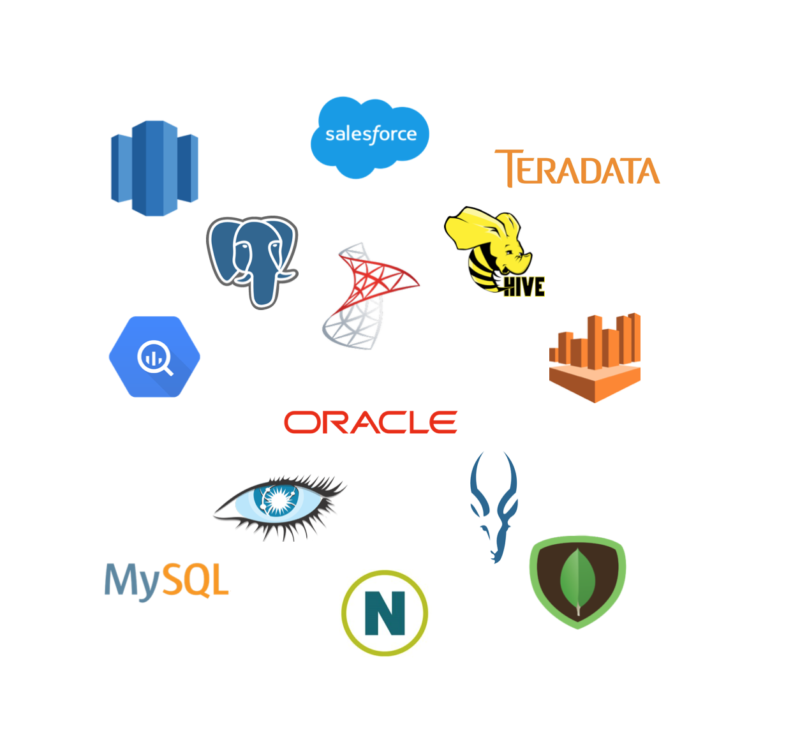
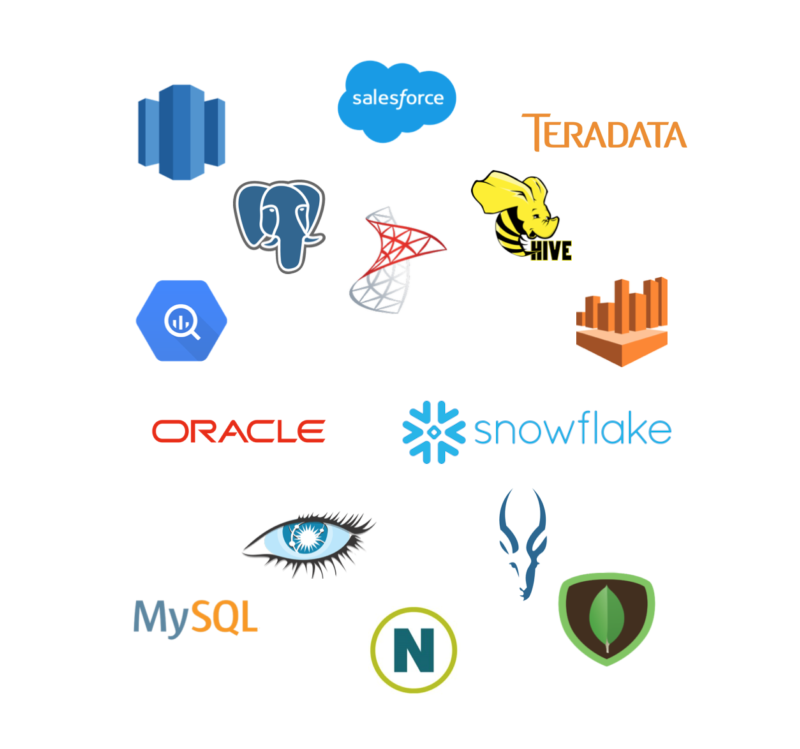
Tweak Pro Drivers lang and Snowflake tweaks

diff --git a/content/getting-started/database-queries.html b/content/getting-started/database-queries.html
@@ -2,6 +2,7 @@
 title: Database Queries With R
 ---
 
+<script src="/rmarkdown-libs/header-attrs/header-attrs.js"></script>
 
 
 <p>There are many ways to query data with R. This article shows you three of the most common ways:</p>
@@ -20,8 +21,8 @@ title: Database Queries With R
 </ul>
 <p>RStudio also made recent improvements to its products so they work better with databases.</p>
 <ul>
-<li><a href="/connections">RStudio IDE (v1.1)</a>. With the latest version of the RStudio IDE, you can connect to, explore, and view data in a variety of databases. The IDE has a wizard for setting up new connections, and a tab for exploring established connections. These new features are extensible and will work with any R package that has a <a href="/advanced/contract/">connections contract</a>.</li>
-<li><a href="/rstudio/pro-drivers/">RStudio Professional Drivers</a>. If you are using RStudio professional products, you can download RStudio Professional Drivers for no additional cost. The examples below use the Oracle ODBC driver. If you are using open-source tools, you can bring your own driver or use community packages – many open-source drivers and community packages exist for connecting to a variety of databases.</li>
+<li><a href="/connections">RStudio IDE (v1.1 and newer)</a>. With the latest versions of the RStudio IDE, you can connect to, explore, and view data in a variety of databases. The IDE has a wizard for setting up new connections, and a tab for exploring established connections. These new features are extensible and will work with any R package that has a <a href="/advanced/contract/">connections contract</a>.</li>
+<li><a href="/rstudio/pro-drivers/">RStudio Professional Drivers</a>. If you are using RStudio Desktop Pro or other RStudio professional products, you can download RStudio Professional Drivers for no additional cost on the same machine where these products are installed. The examples below use the Oracle ODBC driver. If you are using open-source tools, you can bring your own driver or use community packages – many open-source drivers and community packages exist for connecting to a variety of databases.</li>
 </ul>
 <p>Using databases with R is a broad subject and there is more work to be done. An earlier blog post discussed <a href="https://blog.rstudio.com/2017/06/27/dbplyr-1-1-0/">our vision</a>.</p>
 </div>
@@ -62,7 +63,7 @@ GROUP BY &quot;month_idx&quot;, &quot;year&quot;, &quot;month&quot;</code></pre>
 </div>
 <div id="query-using-an-r-notebooks" class="section level3">
 <h3>3. Query using an R Notebooks</h3>
-<p>Did you know that you can run SQL code in an <a href="http://rmarkdown.rstudio.com/r_notebooks.html">R Notebook</a> code chunk? To use SQL, open an <a href="http://rmarkdown.rstudio.com/r_notebooks.html">R Notebook</a> in the RStudio IDE under the <strong>File &gt; New File</strong> menu. Start a new code chunk with <code>{sql}</code>, and specify your connection with the <code>connection=con</code> code chunk option. If you want to send the query output to an R dataframe, use <code>output.var = &quot;mydataframe&quot;</code> in the code chunk options. When you specify <code>output.var</code>, you will be able to use the output in subsequent R code chunks. In this example, we use the output in <code>ggplot2</code>.</p>
+<p>Did you know that you can run SQL code in an <a href="http://rmarkdown.rstudio.com/r_notebooks.html">R Notebook</a> code chunk? To use SQL, open an <a href="http://rmarkdown.rstudio.com/r_notebooks.html">R Notebook</a> in the RStudio IDE under the <strong>File &gt; New File</strong> menu. Start a new code chunk with <code>{sql}</code>, and specify your connection with the <code>connection=con</code> code chunk option. If you want to send the query output to an R dataframe, use <code>output.var = "mydataframe"</code> in the code chunk options. When you specify <code>output.var</code>, you will be able to use the output in subsequent R code chunks. In this example, we use the output in <code>ggplot2</code>.</p>
 <pre><code>```{sql, connection=con, output.var = &quot;mydataframe&quot;}
 SELECT &quot;month_idx&quot;, &quot;year&quot;, &quot;month&quot;, SUM(CASE WHEN (&quot;term_deposit&quot; = &#39;yes&#39;) THEN (1.0) ELSE (0.0) END) AS &quot;subscribe&quot;,
 COUNT(*) AS &quot;total&quot;

diff --git a/content/best-practices/drivers.html b/content/best-practices/drivers.html
@@ -4,12 +4,19 @@ aliases:
   - /drivers
 ---
 
+<script src="/rmarkdown-libs/header-attrs/header-attrs.js"></script>
 
 
-<p>For Unix and MacOS, ODBC drivers should be compiled against
-<a href="http://www.unixodbc.org/">unixODBC</a>. Drivers compiled against <a href="http://www.iodbc.org/">iODBC</a> <em>may</em> also work, but are not fully supported.</p>
+<div id="using-rstudio-professional-drivers" class="section level2">
+<h2>Using RStudio Professional Drivers</h2>
+<p>When working with databases on RStudio Desktop Pro and other RStudio professional products, it is strongly recommended to use the <a href="../../rstudio/pro-drivers">RStudio Professional Drivers</a>. Not only these come with full support, but also they simplify the installation and configuration process is most cases, not requiring many of the steps detailed below.</p>
+</div>
+<div id="using-other-drivers" class="section level2">
+<h2>Using other drivers</h2>
+<p>For Linux and MacOS, ODBC drivers should be compiled against <a href="http://www.unixodbc.org/">unixODBC</a>. Drivers compiled against <a href="http://www.iodbc.org/">iODBC</a> <em>may</em> also work, but are not fully supported.</p>
 <p>After installation of the driver manager and driver, you will have to
 register the driver in a <a href="#dsn-configuration-files">odbcinst.ini</a> file for it to appear in <code>odbc::odbcListDrivers()</code>.</p>
+</div>
 <div id="microsoft-windows" class="section level2">
 <h2>Microsoft Windows</h2>
 <div id="database-drivers" class="section level3">
@@ -31,7 +38,7 @@ application is used to manage ODBC data sources on Windows.</p>
 <h3>Installation</h3>
 <ol style="list-style-type: decimal">
 <li><p>Install <a href="http://brew.sh/">homebrew</a> to install database drivers easily on MacOS</p></li>
-<li>Install UnixODBC, which is required for all databases</li>
+<li><p>Install UnixODBC, which is required for all databases</p></li>
 </ol>
 <pre class="shell"><code>  # Install the unixODBC library
   brew install unixodbc</code></pre>

diff --git a/content/rstudio/pro-drivers.html b/content/rstudio/pro-drivers.html
@@ -2,6 +2,7 @@
 title: "RStudio Professional Drivers"
 ---
 
+<script src="/rmarkdown-libs/header-attrs/header-attrs.js"></script>
 
 
 <p>RStudio makes it easy to access and analyze your data with R. RStudio Professional Drivers are ODBC data connectors that help you connect to some of the most popular databases. These drivers will help you:</p>
@@ -10,7 +11,7 @@ title: "RStudio Professional Drivers"
 <li>Develop and deploy Shiny applications that depend on databases</li>
 <li>Use databases with R in a Production environment</li>
 </ul>
-<p>If you are using RStudio Server Pro, RStudio Connect, or Shiny Server Pro, then you can download and use RStudio Professional Drivers at no additional charge.</p>
+<p>If you are using RStudio Desktop Pro, RStudio Server Pro, RStudio Connect, or Shiny Server Pro, then you can download and use RStudio Professional Drivers at no additional charge in the same machine were these one products is installed.</p>
 <div id="coverage" class="section level2">
 <h2>Coverage</h2>
 <p>We connect you to some of the most popular databases available today, and we are committed to increasing the number of data connectors we support in the future.</p>
@@ -32,6 +33,7 @@ title: "RStudio Professional Drivers"
 <li><a href="/databases/netezza">IBM Netezza</a></li>
 <li><a href="/databases/salesforce">Salesforce</a></li>
 <li><a href="/databases/my-sql">MySQL</a></li>
+<li><a href="/databases/snowflake">Snowflake</a></li>
 </ul>
 <p></br></p>
 <p align="left">

diff --git a/content/databases/sqlite.html b/content/databases/sqlite.html
@@ -8,6 +8,7 @@ aliases:
   - /sqlite
 ---
 
+<script src="/rmarkdown-libs/header-attrs/header-attrs.js"></script>
 
 
 <p>Embeds the SQLite database engine in R, providing a DBI-compliant interface. <a href="http://www.sqlite.org">SQLite</a> is a public-domain, single-user, very light-weight database engine that implements a decent subset of the SQL 92 standard, including the core table creation, updating, insertion, and selection operations, plus transaction management.</p>

diff --git a/content/databases/big-query.html b/content/databases/big-query.html
@@ -2,12 +2,13 @@
 title: Google BigQuery
 logo: "/logos/bigquerylarge.png"
 dplyr: "Yes"
-driver: "No"
+driver: "Yes"
 package: bigrquery
 aliases:
   - /big-query
 ---
 
+<script src="/rmarkdown-libs/header-attrs/header-attrs.js"></script>
 
 
 <p>There are two options for connecting to Google BigQuery:</p>

diff --git a/content/databases/my-sql.html b/content/databases/my-sql.html
@@ -2,12 +2,13 @@
 title: MySQL
 logo: "/logos/mysqllarge.png"
 dplyr: "Yes"
-driver: "No"
+driver: "Yes"
 package: "RMariaDB"
 aliases:
   - /my-sql
 ---
 
+<script src="/rmarkdown-libs/header-attrs/header-attrs.js"></script>
 
 
 <p>There are two options for connecting to a MySQL database:</p>

diff --git a/content/databases/snowflake.html b/content/databases/snowflake.html
@@ -1,5 +1,6 @@
 ---
 title: Snowflake
+logo: "/logos/snowflakelarge.png"
 dplyr: "Yes"
 driver: "Yes"
 ---
